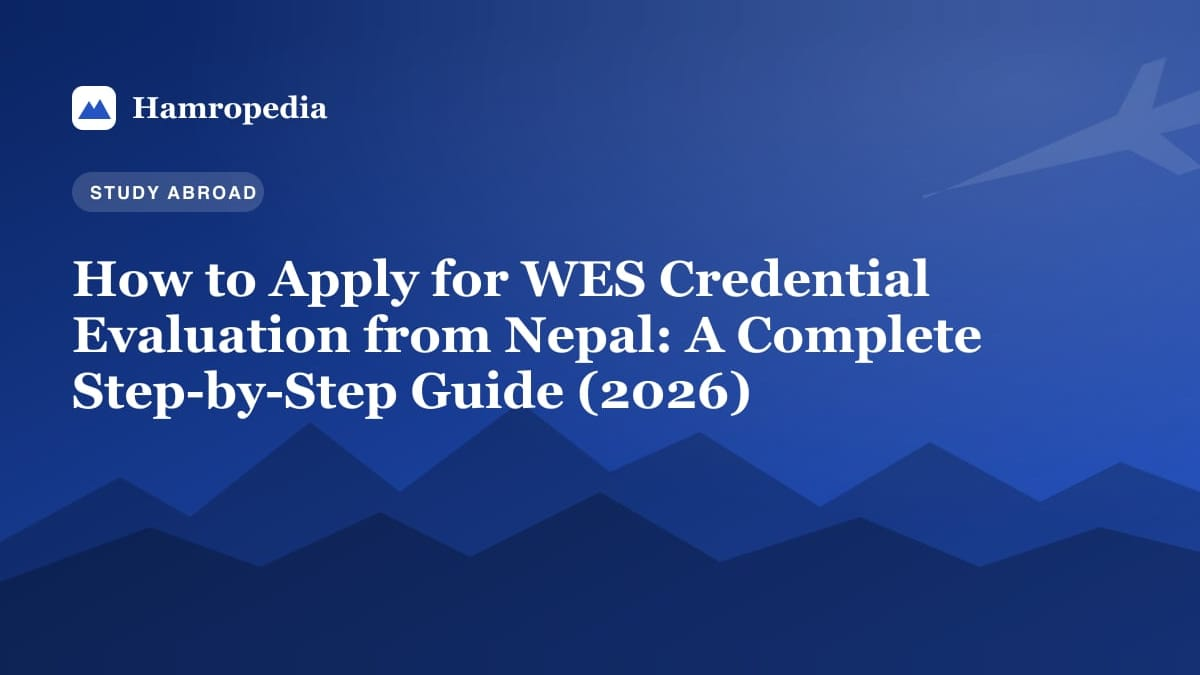
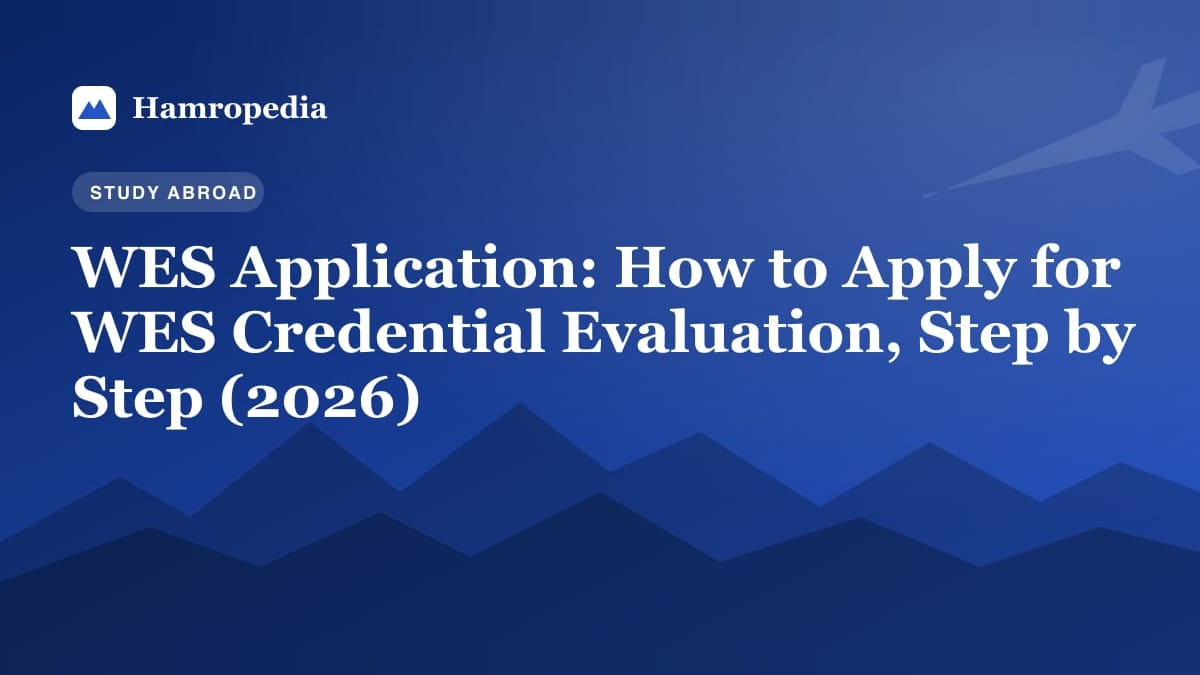
Rewrite WES how-to around 'wes application'; FAQPage schema for every post

Changed region(s): [[0.0617, 0.3422, 0.9558, 0.6533]]

diff --git a/src/lib/markdown.js b/src/lib/markdown.js
@@ -78,3 +78,18 @@ export function renderMarkdown(md, ctx) {
   );
   return { html, toc };
 }
+
+/**
+ * The questions and answers in a post's FAQ section, for FAQPage schema.
+ * Reads "## Frequently asked questions" (or the Nepali heading) up to the next "## " or "---",
+ * where each question is a bold line ending in "?" followed by its answer: **Question?** Answer.
+ */
+export function extractFaqs(markdown) {
+  const start = markdown.search(/^## (Frequently asked questions|बारम्बार सोधिने प्रश्न)\s*$/m);
+  if (start < 0) return [];
+  const rest = markdown.slice(start).split('\n').slice(1).join('\n');
+  const end = rest.search(/^(## |---\s*$)/m);
+  const section = end < 0 ? rest : rest.slice(0, end);
+  const plain = (t) => t.replace(/\[([^\]]*)\]\([^)]*\)/g, '$1').replace(/\*\*|`/g, '').replace(/<[^>]+>/g, '').trim();
+  return [...section.matchAll(/^\*\*(.+?[?？])\*\*\s+(.+)$/gm)].map(([, q, a]) => ({ q: plain(q), a: plain(a) }));
+}

diff --git a/src/pages/posts.js b/src/pages/posts.js
@@ -2,7 +2,7 @@ import { site, categories } from '../data/site.js';
 import { esc, longDate, isoDate, abs } from '../lib/util.js';
 import { layout } from '../templates/layout.js';
 import {
-  categoryChip, postCard, breadcrumbs, breadcrumbSchema, shareBar, supportNote, pageHead, cover, displayDate,
+  categoryChip, postCard, breadcrumbs, breadcrumbSchema, faqSchema, shareBar, supportNote, pageHead, cover, displayDate,
 } from '../templates/components.js';
 import { toNepaliDigits } from '../assets/js/lib/bs-date.js';
 import fs from 'node:fs';
@@ -122,6 +122,8 @@ ${post.html}
       inLanguage: lang,
     },
     breadcrumbSchema(crumbs),
+    // FAQPage from the post's own FAQ section, so the schema always matches what readers see.
+    ...(post.faqs && post.faqs.length >= 2 ? [faqSchema(post.faqs)] : []),
   ];
 
   return layout({

diff --git a/src/content/posts/how-to-apply-for-wes-evaluation.md b/src/content/posts/how-to-apply-for-wes-evaluation.md
@@ -1,48 +1,53 @@
 ---
-title: "How to Apply for WES Credential Evaluation from Nepal: A Complete Step-by-Step Guide (2026)"
-seoTitle: "WES Application: How to Apply for WES Evaluation, Step by Step"
-description: "How to apply for WES evaluation, step by step with screenshots: create an account, add credentials, choose ICAP, send sealed transcripts from Nepal and pay."
+title: "WES Application: How to Apply for WES Credential Evaluation, Step by Step (2026)"
+seoTitle: "WES Application: How to Apply for WES Evaluation (2026)"
+description: "WES application, step by step with real screenshots: the required documents, every screen of the form, your reference number, fees, and status checks."
 date: 2025-06-09
 updated: 2026-11-05
 category: study-abroad
-tags: [wes, credential evaluation, usa, canada, study abroad]
+tags: [wes, wes application, credential evaluation, usa, canada, study abroad]
 coverWord: "Apply for WES"
 coverAlt: "Step-by-step WES evaluation application"
 ---
 
-This guide shows **how to apply for a WES evaluation**: the whole **WES application form**, from creating your account to paying, screen by screen. The screenshots are from a real application for the **United States**; Canadian applications follow the same pattern. It also covers the part Nepali students find hardest: getting sealed transcripts from your university to WES.
+**To apply for a WES evaluation**, create an account at wes.org, choose the country and purpose, add each qualification, pick course-by-course or document-by-document and ICAP or Basic, add the institutions that should get your report, and pay: **US$239** for a course-by-course ICAP evaluation ([WES fees](https://www.wes.org/evaluations-and-fees/education/graduate-admissions/)). Then ask your university to send your official transcripts to WES, with your **WES reference number**. WES checks your documents in about 2 weeks, then evaluates them in 1 to 4 more ([WES processing times](https://www.wes.org/processing-times/)).
+
+This guide walks through the whole **WES application form** with screenshots from a real application for the **United States**; Canadian applications follow the same pattern. It also covers the part Nepali students find hardest: getting transcripts from your university to WES.
 
 ## WES required documents: what you need before you start
 
 - **Your degree certificate** (final or provisional) as a clear scan, to upload yourself.
-- **Official transcripts** that your university will send to WES in a **sealed envelope**: ask your university's exam or records section how long this takes, because it is usually the slowest part.
+- **Official transcripts** that your university sends to WES, either electronically or in a **sealed envelope**: ask your university's exam or records section how long this takes, because it is usually the slowest part.
+- **Translations**, if any document is not in English: a **word-for-word** translation by a **professional translator**, uploaded in your WES account. WES does not accept translations you made yourself ([WES: translation requirements](https://www.wes.org/resource-library/blog/credential-advice/translation-requirements-for-a-wes-credential-evaluation/)).
 - **Your passport**, so your name and date of birth match exactly.
-- **A card that can pay in US dollars** for the fee: $239 for course-by-course ICAP, plus delivery ([WES fees](https://www.wes.org/evaluations-and-fees/education/graduate-admissions/)).
+- **A card that can pay in US dollars**: $239 for course-by-course ICAP or $171 for document-by-document ICAP, plus delivery ([WES fees](https://www.wes.org/evaluations-and-fees/education/graduate-admissions/)).
 - **Your university's instructions**: which evaluation type it wants and where WES should send the report.
 
-Not sure which evaluation type you need, or what it costs? Read [WES evaluation explained: types and fees](/important-details-about-wes-evaluation-for-nepali-students/) first.
+Not sure which type you need, or what it costs in rupees? Read [WES evaluation cost, fees and ICAP vs Basic](/important-details-about-wes-evaluation-for-nepali-students/) first.
 
-> **Note:** These screenshots were taken earlier, so the **prices shown in them are older**. The current base fees are $239 (course-by-course, ICAP) and $171 (document-by-document, ICAP); see the [WES fee page](https://www.wes.org/evaluations/). Personal details in the screenshots are blurred.
+> **Note:** These screenshots were taken earlier, so the **prices shown in them are older**. The current fees are on the [WES fee page](https://www.wes.org/evaluations-and-fees/education/graduate-admissions/). Personal details in the screenshots are blurred.
 
-## Step 1: Choose where you will use the evaluation
+## How to fill in the WES application form, step by step
+
+### Step 1: Choose where you will use the evaluation
 
 Go to [wes.org](https://www.wes.org/) and start an application. First choose the country where you will use your report: **U.S.**, **Canada** or **New Zealand**. Requirements differ by country, so pick the one your university is in.
 
 ![Choosing the country on WES](/images/posts/wes/step-1.webp "Choose U.S., Canada or New Zealand")
 
-## Step 2: Enter your email address
+### Step 2: Enter your email address
 
-Use a personal email you check often. WES sends everything here, including a six-digit verification code.
+Use a personal email you check often. WES sends everything here, including a six-digit verification code and updates on your evaluation.
 
 ![Entering an email address on WES](/images/posts/wes/step-2.webp "Enter your email and click Next")
 
-## Step 3: Verify your email
+### Step 3: Verify your email
 
 Enter the code from your inbox (check spam too) and click **Submit code**.
 
 ![Entering the WES verification code](/images/posts/wes/step-3.webp "Enter the six-digit code")
 
-## Step 4: Create your account
+### Step 4: Create your account
 
 Enter your first and last name and date of birth exactly as on your passport. Most new applicants answer **No** to "Do you have a WES Reference Number?". Then set a password and security question and click **Create Account**.
 
@@ -50,33 +55,35 @@ Enter your first and last name and date of birth exactly as on your passport. Mo
 
 ![Setting a password and security question](/images/posts/wes/step-5.webp "Password and security question")
 
-## Step 5: Personal information
+### Step 5: Personal information
 
 Fill in how you heard about WES, your name, date of birth, gender and phone number (with country code), then click **Next**.
 
 ![WES personal information form](/images/posts/wes/step-6.webp "Personal information")
 
-## Step 6: Choose the purpose of the evaluation
+### Step 6: Choose the purpose of the evaluation
 
 Choose **Education** if you are applying to a university. Other options are professional licensing, employment and immigration.
 
 ![Choosing education as the purpose](/images/posts/wes/step-7.webp "Choose the primary purpose")
 
-## Step 7: Choose your level of education
+### Step 7: Choose your level of education
 
 Select the level you are applying for: for example graduate admissions for a master's degree, or undergraduate admissions for a bachelor's.
 
 ![Choosing the level of education you are pursuing](/images/posts/wes/step-8.webp "Choose your level")
 
-## Step 8: Add your credentials
+### Step 8: Add your credentials
 
 Click **Add Credential** for each qualification you want evaluated: country, type of education, institution name, diploma name, your name as it appears on the credential, field of study, year awarded and years attended. Use names **exactly** as they appear on your documents.
+
+Can't find your university in the list? WES has no published list of the institutions it evaluates. Its advice is to start the application anyway, because the application often flags schools WES doesn't evaluate before you pay ([WES Help](https://us-help.wes.org/support/solutions/articles/14000126533-where-can-i-find-a-list-of-universities-wes-recognizes-and-evaluates-)).
 
 ![The Your Education step](/images/posts/wes/step-9.webp "Click Add Credential")
 
 ![The Add Credential form](/images/posts/wes/step-10.webp "Enter each qualification")
 
-## Step 9: Add your address and recipients
+### Step 9: Add your address and recipients
 
 Enter your current home address (WES posts your own copy there) and choose a delivery method: **standard delivery** is cheapest and slowest; **international courier** is faster and costs more. Then add the institutions that should receive your report. Each extra recipient costs extra.
 
@@ -84,19 +91,19 @@ Enter your current home address (WES posts your own copy there) and choose a del
 
 ![Choosing a delivery method](/images/posts/wes/step-13.webp "Standard delivery or courier")
 
-## Step 10: Choose the evaluation type and service
+### Step 10: Choose the evaluation type and service
 
 Choose **course-by-course** or **document-by-document**, and **WES ICAP** or **WES Basic**, according to what your university asks for. WES labels ICAP as recommended, and many universities require it.
 
 ![Choosing WES ICAP or Basic](/images/posts/wes/step-14.webp "Choose the package your university requires (prices shown are older)")
 
-## Step 11: Upload your degree and arrange your transcripts
+### Step 11: Upload your degree and arrange your transcripts
 
 You can upload a clear copy of your **degree certificate** (final or provisional) yourself in **My Account**.
 
 ![Uploading the degree certificate](/images/posts/wes/step-15.webp "Upload your degree certificate")
 
-Your **transcripts** are different: WES normally requires them to come from your university in a **sealed envelope** signed or stamped across the flap. Read the **How to Send Your Documents** box carefully: it shows your WES reference number and the current address. Always copy the address from your own WES account, because it can change.
+Your **transcripts** are different: they must come from your university. If they are sent on paper, WES needs them in a **sealed envelope** signed or stamped across the flap. Read the **How to Send Your Documents** box carefully: it shows your WES reference number and the current address. Always copy the address from your own WES account, because it can change.
 
 ![How to send your documents to WES](/images/posts/wes/step-16.webp "Read this box carefully and use the address shown in your account")
 
@@ -108,21 +115,27 @@ Then put the sealed envelope inside a courier envelope (for example DHL or FedEx
 
 ![Example courier envelope addressed to WES](/images/posts/wes/courier.webp "Courier envelope: WES reference number and address")
 
-## Step 12: Review your application
+### Step 12: Review your application
 
 Check every detail against your documents. Mistakes here delay your report.
 
 ![Reviewing the WES application](/images/posts/wes/step-17.webp "Review before paying")
 
-## Step 13: Pay
+### Step 13: Pay
 
 Review the fee summary and pay by credit or debit card (or another option shown). Keep the receipt and your WES reference number.
 
 ![WES fee summary and payment](/images/posts/wes/step-18.webp "Pay the fee (screenshot shows older prices)")
 
+## Your WES reference number: what it is and where to write it
+
+You get your **WES reference number** once you complete the online application. It is how WES matches every document to your file, so it must go **on every envelope and every message** you send to WES. WES says it is not responsible for documents that arrive without one ([WES Help: reference number](https://us-help.wes.org/support/solutions/articles/14000126499-what-is-a-wes-reference-number-)).
+
+Give it to your university too, when you ask for transcripts: Kathmandu University's online WES request, for example, asks for it (see the table below).
+
 ## Sending transcripts to WES from Nepal
 
-This is the step most guides skip, and the one that delays most Nepali applications. WES prefers your **university to send transcripts directly**. If it sends paper, the transcripts must be in an envelope with the institution's name on it, with an official's **seal, stamp or signature across the back flap**. WES rejects any envelope that has been opened ([WES Help: sealed envelope](https://us-help.wes.org/support/solutions/articles/14000126440-sealed-envelope)).
+This is the step most guides skip, and the one that delays most Nepali applications. WES prefers your **university to send transcripts directly**. If it sends paper, the transcripts must be in an envelope with the institution's name on it, with an official's **seal, stamp or signature across the back flap**. WES rejects any envelope that has been opened. Only if your university won't send them should you send the sealed envelope yourself, following WES's document requirements for your country ([WES Help: sealed envelope](https://us-help.wes.org/support/solutions/articles/14000126440-sealed-envelope)).
 
 | University | How it works |
 |---|---|
@@ -130,7 +143,7 @@ This is the step most guides skip, and the one that delays most Nepali applicati
 | **Tribhuvan University (TU)** | Transcripts come from the **Office of the Controller of Examinations at Balkhu** ([Edusanjal](https://edusanjal.com/blog/how-apply-transcript-tribhuvan-university/)). Ask for them in a sealed envelope as above, or ask whether the office will send them to WES directly. |
 | **Pokhara, Purbanchal and other universities** | Ask your university's examination or records section how it sends documents to WES, and follow WES's rule for sealed envelopes. |
 
-Whatever your university, write your **WES reference number** on the request, and keep the courier tracking number.
+Keep the courier tracking number, and convert any BS dates on your documents to AD with the [Nepali date converter](/tools/nepali-date-converter/) so they match the dates you enter on the form.
 
 ### Timeline from Nepal
 
@@ -143,29 +156,51 @@ Whatever your university, write your **WES reference number** on the request, an
 
 (WES times from [WES processing times](https://www.wes.org/processing-times/).)
 
-## After you apply: how long WES takes
+## The WES evaluation process: what happens after you apply
 
-- Track your documents and status in your WES account.
-- WES starts the evaluation once **all** required documents have arrived and been verified. Verification takes about **2 weeks**, and a course-by-course evaluation about **2 more weeks** (up to 4 if complex) ([WES processing times](https://www.wes.org/processing-times/)).
-- Your report goes to you and to your recipients by the delivery method you chose.
+1. **Documents:** WES waits until **all** required documents have arrived.
+2. **Verification:** it checks they are genuine, which takes about **2 weeks**.
+3. **Evaluation:** an evaluator converts your qualifications into US terms. Course-by-course takes about **2 weeks**, up to 4 if complex; document-by-document about 1 week, up to 2 ([WES processing times](https://www.wes.org/processing-times/)).
+4. **Delivery:** your report goes to you and to your recipients by the delivery method you chose.
+
+## How to check your WES application status
+
+Log in to your WES account. Your dashboard has a **tracker with three stages: Application, Documents and Evaluation**, and each one turns green when it is complete. Under the tracker, a status message tells you what WES is waiting for, such as "We are waiting for your documents", with a **Details** link for your next steps and **View Required Documents** for what your university must send. WES also emails you as your evaluation moves forward ([WES: check your status](https://www.wes.org/resource-library/blog/credential-advice/how-to-check-the-status-of-your-wes-credential-evaluation/)).
+
+## Can you cancel or change a WES application?
+
+- **Cancelling** an application or file costs a **$56** processing fee. A **completed** evaluation can't be cancelled, and its fees can't be refunded ([WES Help: cancellation fee](https://us-help.wes.org/support/solutions/articles/14000126395-is-there-a-cancellation-fee-)).
+- **Upgrading from Basic to ICAP** costs **$53** while the evaluation is still in progress, or **$92** after it is completed.
+- **Updating a completed evaluation**, for example to add a new degree or to upgrade document-by-document to course-by-course, costs **$92** ([WES fees](https://www.wes.org/evaluations-and-fees/education/graduate-admissions/)).
 
 ## Tips to avoid delays
 
-- **Start early.** Getting sealed transcripts from a Nepali university and couriering them abroad often takes weeks.
+- **Start early.** Getting transcripts from a Nepali university and couriering them abroad often takes weeks.
 - **Match names exactly** across passport, certificates and the WES form.
 - **Write your WES reference number** on everything you send.
+- **Get translations done professionally** before you upload them.
 - **Don't send originals.** WES does not return documents.
 
 ## Frequently asked questions
 
-**What are the WES required documents?** An account on wes.org, a copy of your degree certificate, and official transcripts sent by your university in a sealed envelope with your WES reference number. WES shows the exact list for your qualification under **Required documents** in your account.
+**What are the WES required documents?** A copy of your degree certificate, which you upload yourself, and official transcripts sent to WES by your university, electronically or in a sealed envelope, with your WES reference number. Documents not in English also need a professional translation. Your account lists the exact documents for your qualification.
 
-**How much does a WES evaluation cost?** For US admissions, $239 for course-by-course ICAP or $171 for document-by-document ICAP, plus delivery. See [WES fees in dollars and rupees](/important-details-about-wes-evaluation-for-nepali-students/).
+**How much does a WES evaluation cost?** For US admissions, a course-by-course ICAP evaluation costs $239 and a document-by-document ICAP evaluation $171, plus delivery, which is $14 for standard post. Extra copies and courier delivery cost more. See [WES fees in dollars and rupees](/important-details-about-wes-evaluation-for-nepali-students/) for the full list.
 
-**How long does WES processing take?** About 2 weeks for verification and 1 to 4 weeks for the evaluation, counted from when all documents arrive. Courier time from Nepal comes on top.
+**How long does WES evaluation take?** About 2 weeks to verify your documents, then about 2 weeks to evaluate a course-by-course report, or up to 4 if it is complex. The clock starts only when all your documents have arrived, so the time your university and courier take comes on top of this.
 
-**Where do I send my documents for WES?** To the address shown in **How to Send Your Documents** in your WES account, with your WES reference number on the envelope. Always copy it from your own account, because it can change.
+**Can I send my transcripts to WES myself?** WES prefers your university to send them directly. If your university won't, you can send them yourself, but only in the university's sealed envelope, signed or stamped across the flap and never opened. Check WES's document requirements for Nepal in your account first.
 
-**Is WES valid for 5 years?** The 5-year limit applies to the ECA for Canadian immigration (Express Entry). Universities set their own rules on how old a report can be.
+**What if my documents are not in English?** WES needs an exact, word-for-word English translation by a professional translator, and it won't accept translations made by applicants. You upload the translation in your WES account. Ask your university for two sets of documents: one for WES and one for the translator.
 
-Next: [Apply for your NOC](/how-to-apply-noc-online-easy-steps-for-nepali-students/) · [Convert BS dates on your documents to AD](/tools/nepali-date-converter/)
+**What if my university is not listed on WES?** WES does not publish a list of the institutions it evaluates. Start your application anyway: the form often flags schools that WES doesn't evaluate before you pay. If evaluators later can't assess your credential, WES updates your account to say so.
+
+**How do I check my WES application status?** Log in to your WES account and look at the tracker on your dashboard: Application, Documents and Evaluation, with each stage turning green when it is done. The message under it explains what WES is waiting for. WES also sends email updates as your evaluation progresses.
+
+**Can I cancel my WES application?** Yes, but there is a $56 processing fee for cancelling a file or application. A completed evaluation can't be cancelled and its fees are not refunded, so check that your university accepts WES, and which report type it wants, before you pay.
+
+**How do I apply for a WES evaluation for Canada?** Choose Canada in step 1, then the purpose. For Express Entry and other immigration, you need the Educational Credential Assessment (ECA), which costs C$264 plus delivery and 13% HST ([WES: ECA](https://www.wes.org/eca-2/)). The rest of the application works the same way.
+
+**Is a WES evaluation valid for 5 years?** The 5-year limit is for Canadian immigration: your ECA must be less than 5 years old when you create your Express Entry profile and when you apply ([IRCC](https://www.canada.ca/en/immigration-refugees-citizenship/services/immigrate-canada/express-entry/documents/education-assessed/how.html)). Universities decide for themselves how old a report they accept, so check with each one before you apply.
+
+Next: [Apply for your NOC](/how-to-apply-noc-online-easy-steps-for-nepali-students/) before sending fees abroad · [WES costs in rupees](/important-details-about-wes-evaluation-for-nepali-students/) · [Convert BS dates to AD](/tools/nepali-date-converter/)
